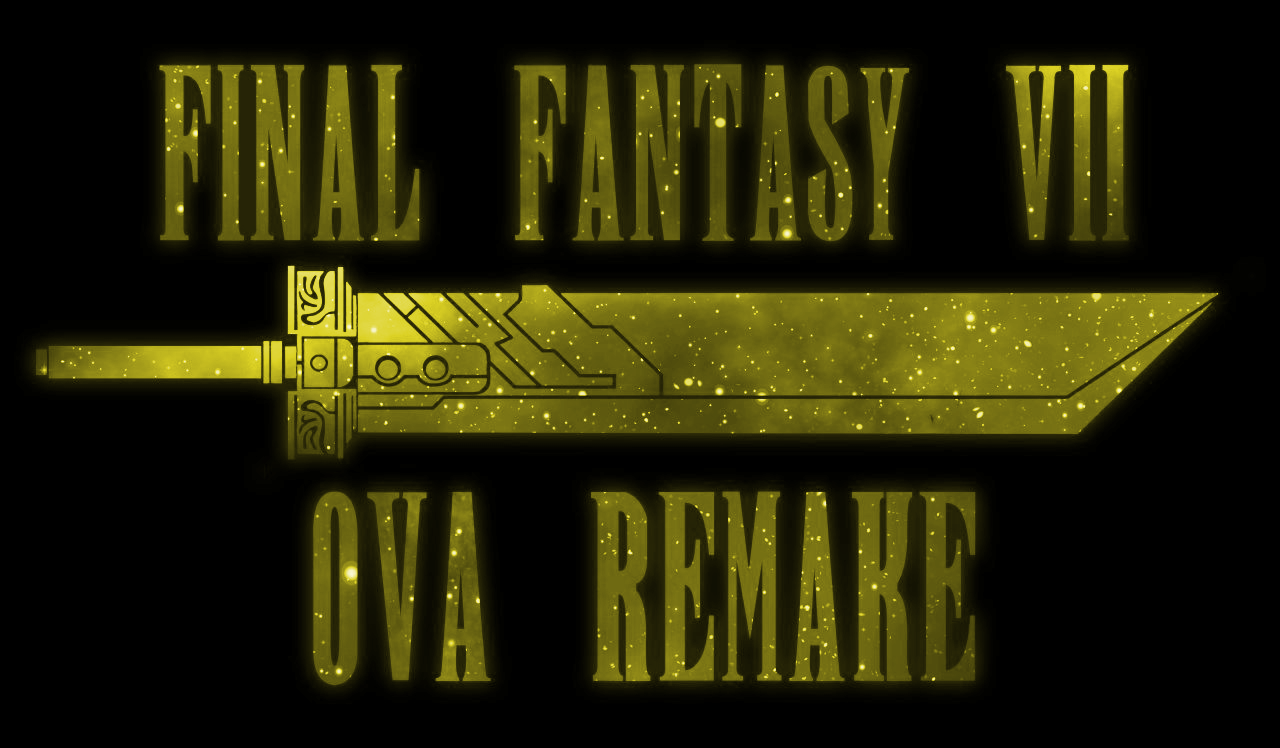
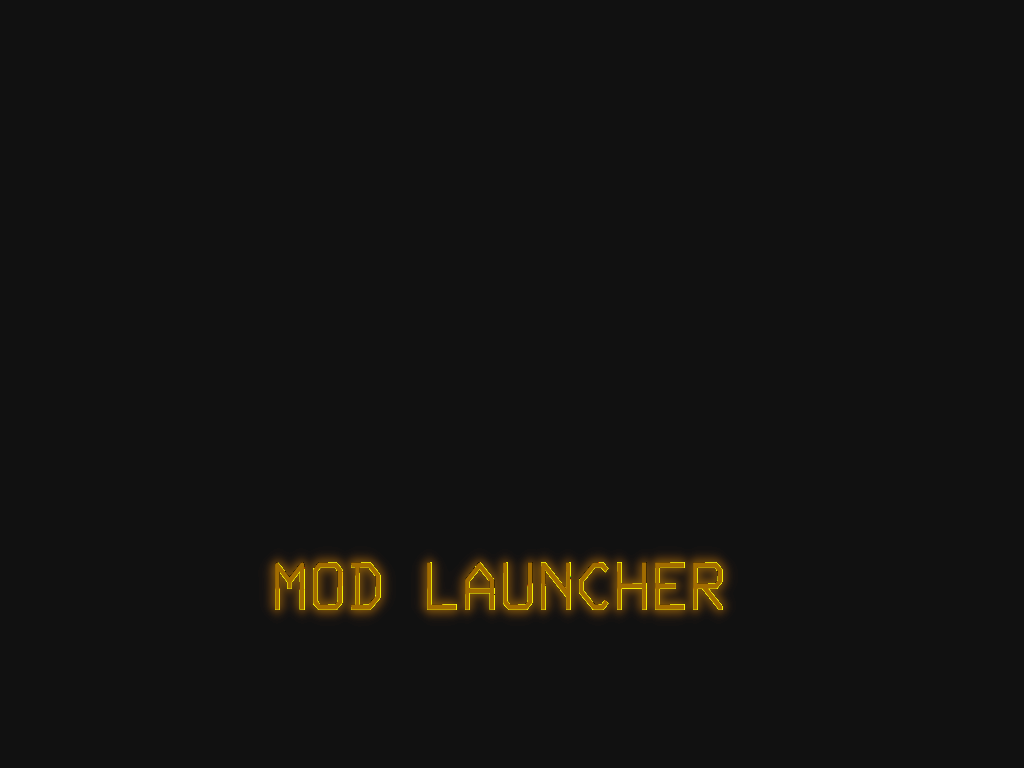
replace background image with a generic one, also the title

diff --git a/SeventhLauncher/MainWindow.xaml b/SeventhLauncher/MainWindow.xaml
@@ -8,7 +8,7 @@
         xmlns:cls="https://7thheaven.rocks/SeventhHeavenUI/Classes"
         xmlns:gif="https://github.com/XamlAnimatedGif/XamlAnimatedGif"
         mc:Ignorable="d"
-        Title="FF7 OVA Remake v1.1.0  ( with 7h tecnology )"
+        Title="ModLauhcer"
         WindowStartupLocation="CenterScreen"
         Height="623"
         Width="1014"
@@ -21,31 +21,31 @@
     <TabControl Grid.ColumnSpan="2" Margin="-3,-2,-5,-1" Grid.RowSpan="2">
         <TabItem Header="TabItem">
             <Grid VerticalAlignment="Center" HorizontalAlignment="Center" Width="1018" Height="659">
+                <Grid.Background>
+                    <ImageBrush Stretch="UniformToFill" ImageSource="/Launcher/custom_bg.png"/>
+                </Grid.Background>
                 <Grid.RowDefinitions>
-                    <RowDefinition Height="239*"/>
-                    <RowDefinition Height="420*"/>
+                    <RowDefinition Height="252*"/>
+                    <RowDefinition Height="407*"/>
                 </Grid.RowDefinitions>
                 <Grid.ColumnDefinitions>
-                    <ColumnDefinition Width="337*"/>
-                    <ColumnDefinition Width="194*"/>
-                    <ColumnDefinition Width="486*"/>
+                    <ColumnDefinition Width="171*"/>
+                    <ColumnDefinition Width="342*"/>
+                    <ColumnDefinition Width="505*"/>
                 </Grid.ColumnDefinitions>
-                <Grid.Background>
-                    <ImageBrush ImageSource="/Launcher/custom_bg.png" Stretch="Uniform"/>
-                </Grid.Background>
-                <Button x:Name="play_button" Content="Play" Height="38" Margin="71,203,0,0" Width="120" HorizontalAlignment="Left" VerticalAlignment="Top" Click="play_button_Click" Foreground="#FFE4AB0F" Grid.Row="1"/>
-                <Button x:Name="quit_button" Content="Quit" Height="38" Margin="71,299,0,0" Width="120" HorizontalAlignment="Left" VerticalAlignment="Top" Click="quit_button_Click" Foreground="#FFE4AB0F" Grid.Row="1"/>
-                <Button x:Name="launcher_button" Content="Launcher" Height="38" Margin="292,248,0,134" Click="launcher_button_Click" HorizontalAlignment="Left" Width="82" Grid.Column="2" Foreground="#FFE4AB0F" Grid.Row="1"/>
-                <Button x:Name="ffnx_button" Content="FFnX" Height="38" Margin="389,248,0,134" Click="ffnx_button_Click" HorizontalAlignment="Left" Width="82" Grid.Column="2" Foreground="#FFE4AB0F" Grid.Row="1"/>
-                <Button x:Name="controller_button" Content="Controller" Height="38" Margin="292,303,0,79" Click="controller_button_Click" HorizontalAlignment="Left" Width="82" Grid.Column="2" Foreground="#FFE4AB0F" Grid.Row="1"/>
-                <Button x:Name="system_button" Content="System" Height="38" Margin="390,303,0,79" Click="system_button_Click" HorizontalAlignment="Left" Width="82" Grid.Column="2" Foreground="#FFE4AB0F" Grid.Row="1"/>
-                <Button x:Name="profile_button" Content="Profile" Height="38" Margin="292,196,0,186" Click="profile_button_Click" HorizontalAlignment="Left" Width="82" Grid.Column="2" Foreground="#FFE4AB0F" Grid.Row="1"/>
-                <Button x:Name="options_button" Content="Options" Height="38" Margin="71,251,0,0" Width="120" HorizontalAlignment="Left" VerticalAlignment="Top" Click="options_button_Click" Foreground="#FFE4AB0F" Grid.Row="1"/>
-                <Button x:Name="content_button" Content="Downloads" Height="38" Margin="71,222,0,0" Width="103" HorizontalAlignment="Left" VerticalAlignment="Top" Click="content_button_Click" Grid.Column="2" Foreground="#FFE4AB0F" Grid.Row="1"/>
-                <ProgressBar x:Name="download_bar" HorizontalAlignment="Left" Height="32" Margin="302,68,0,0" VerticalAlignment="Top" Width="476" Grid.ColumnSpan="3" Foreground="#FF8A8315" Grid.Row="1"/>
-                <TextBlock x:Name="download_text" HorizontalAlignment="Left" Margin="304,70,0,0" TextWrapping="Wrap" VerticalAlignment="Top" Height="28" Width="470" Grid.ColumnSpan="3" TextAlignment="Center" FontSize="18" Grid.Row="1"/>
-                <Button x:Name="convert_button" Content="CONVERT&#xD;&#xA;" Margin="6,205,0,169" Click="convert_button_Click" HorizontalAlignment="Left" Width="139" Foreground="#FFE4AB0F" Grid.Row="1" Grid.Column="1"/>
-                <Button x:Name="content_button_Copy" Content="Resources" Height="38" Margin="73,270,0,0" Width="103" HorizontalAlignment="Left" VerticalAlignment="Top" Click="content_button_Click" Grid.Column="2" Foreground="#FFE4AB0F" Grid.Row="1"/>
+                <Button x:Name="play_button" Content="Play" Height="38" Margin="0,203,0,0" Width="120" HorizontalAlignment="Center" VerticalAlignment="Top" Click="play_button_Click" Foreground="#FFE4AB0F" Grid.Row="1"/>
+                <Button x:Name="quit_button" Content="Quit" Height="38" Margin="0,299,0,0" Width="120" HorizontalAlignment="Center" VerticalAlignment="Top" Click="quit_button_Click" Foreground="#FFE4AB0F" Grid.Row="1"/>
+                <Button x:Name="launcher_button" Content="Launcher" Margin="292,248,0,120" Click="launcher_button_Click" HorizontalAlignment="Left" Width="82" Grid.Column="2" Foreground="#FFE4AB0F" Grid.Row="1"/>
+                <Button x:Name="ffnx_button" Content="FFnX" Margin="389,248,0,120" Click="ffnx_button_Click" HorizontalAlignment="Left" Width="82" Grid.Column="2" Foreground="#FFE4AB0F" Grid.Row="1"/>
+                <Button x:Name="controller_button" Content="Controller" Margin="292,303,0,65" Click="controller_button_Click" HorizontalAlignment="Left" Width="82" Grid.Column="2" Foreground="#FFE4AB0F" Grid.Row="1"/>
+                <Button x:Name="system_button" Content="System" Margin="390,303,0,65" Click="system_button_Click" HorizontalAlignment="Left" Width="82" Grid.Column="2" Foreground="#FFE4AB0F" Grid.Row="1"/>
+                <Button x:Name="profile_button" Content="Profile" Margin="292,196,0,172" Click="profile_button_Click" HorizontalAlignment="Left" Width="82" Grid.Column="2" Foreground="#FFE4AB0F" Grid.Row="1"/>
+                <Button x:Name="options_button" Content="Options" Height="38" Margin="0,251,0,0" Width="120" HorizontalAlignment="Center" VerticalAlignment="Top" Click="options_button_Click" Foreground="#FFE4AB0F" Grid.Row="1"/>
+                <Button x:Name="content_button" Content="hide tools" Height="38" Margin="335,0,0,0" Width="103" HorizontalAlignment="Left" VerticalAlignment="Center" Click="content_button_Click" Grid.Column="2" Foreground="#FFE4AB0F"/>
+                <ProgressBar x:Name="download_bar" HorizontalAlignment="Left" Height="32" Margin="38,68,0,0" VerticalAlignment="Top" Width="476" Grid.ColumnSpan="2" Foreground="#FF8A8315" Grid.Row="1" Grid.Column="1"/>
+                <TextBlock x:Name="download_text" HorizontalAlignment="Left" Margin="28,74,0,0" TextWrapping="Wrap" VerticalAlignment="Top" Height="28" Width="470" Grid.ColumnSpan="2" TextAlignment="Center" FontSize="18" Grid.Row="1" Grid.Column="1"/>
+                <Button x:Name="convert_button" Content="CONVERT&#xD;&#xA;" Margin="0,105,0,88" Click="convert_button_Click" HorizontalAlignment="Center" Width="140" Foreground="#FFE4AB0F" Grid.Column="2"/>
+                <Button x:Name="content_button_Copy" Content="show tools" Height="38" Margin="337,153,0,0" Width="103" HorizontalAlignment="Left" VerticalAlignment="Top" Click="content_button_Click" Grid.Column="2" Foreground="#FFE4AB0F"/>
 
 
             </Grid>
